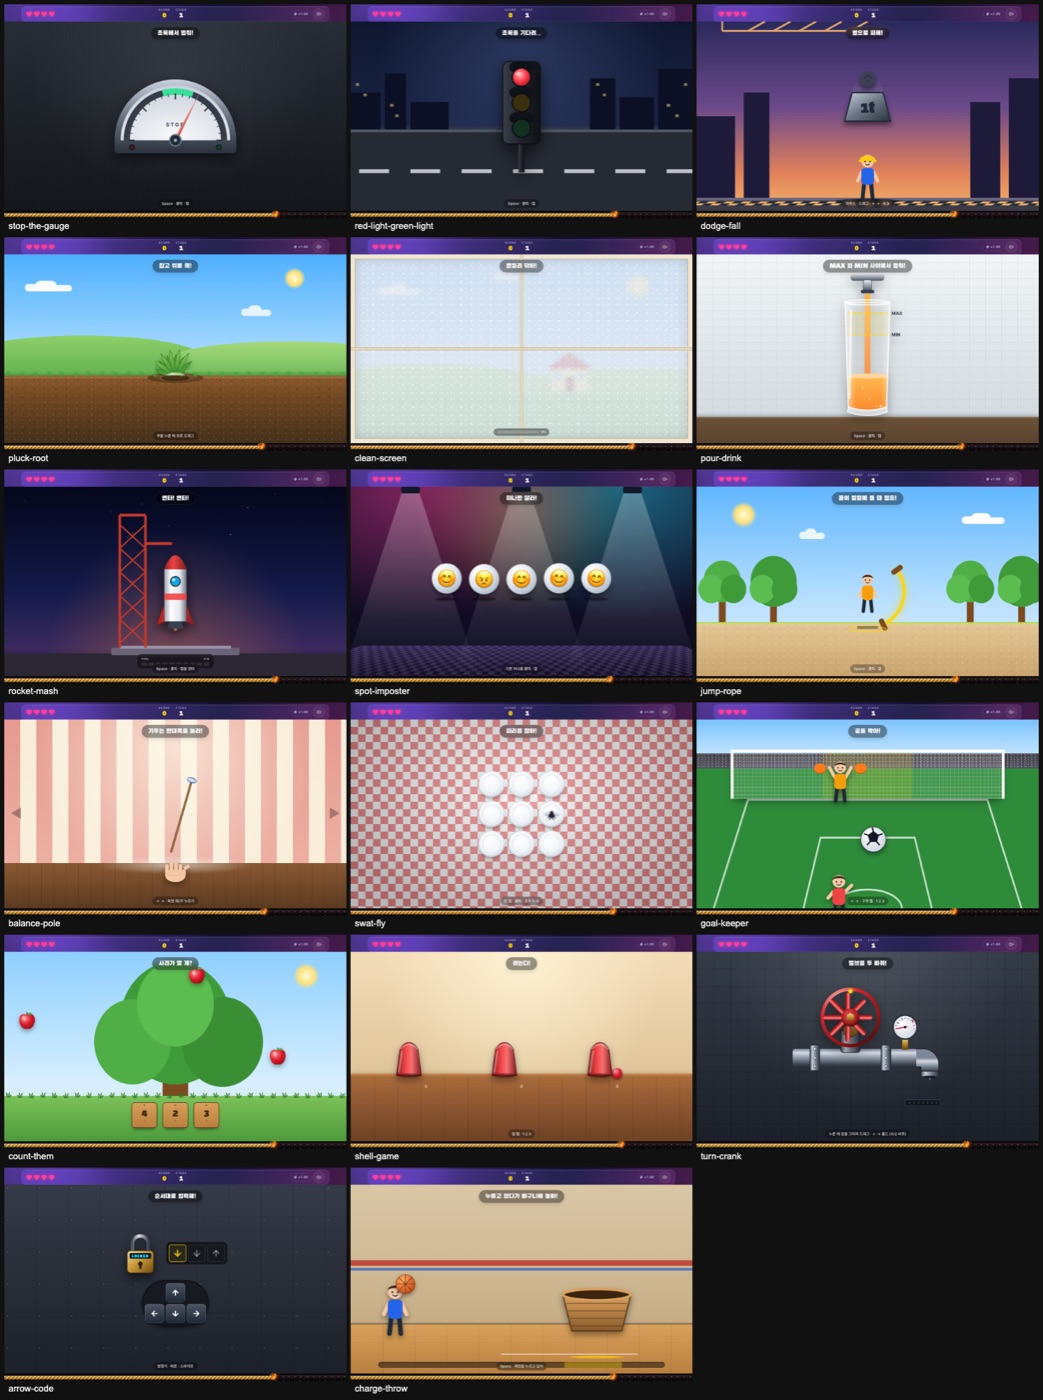
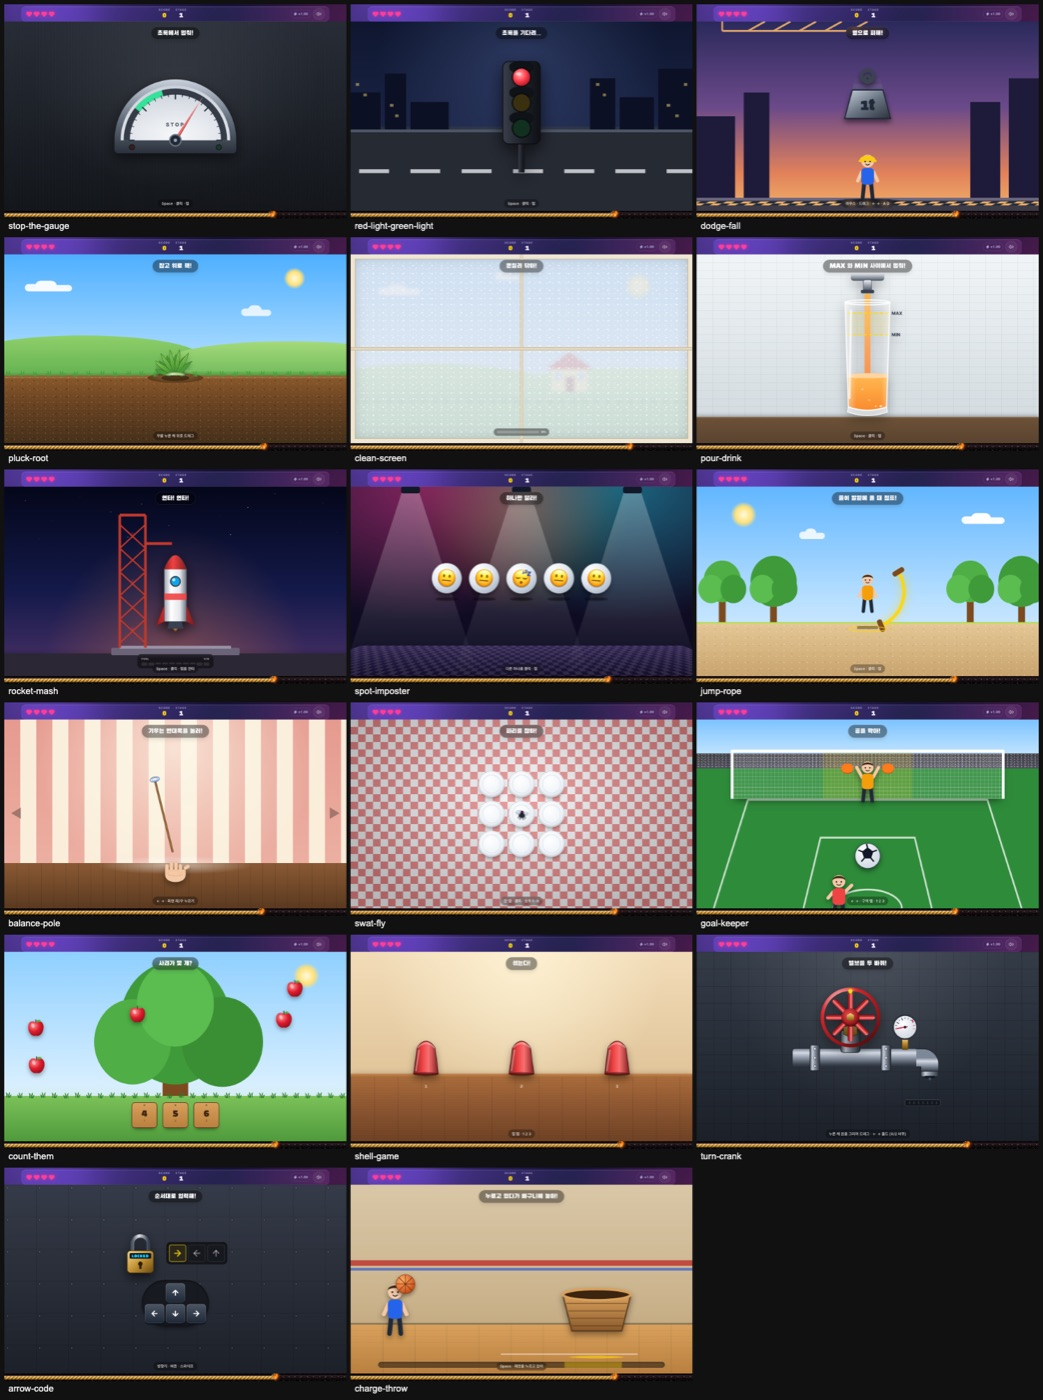
fix: 찾아! — 컵이 덮으면 공이 보이지 않는다 (+ 네 게임의 이중 이동 버그)
- 원인: Tailwind 4 의 `-translate-x-1/2` 는 CSS `translate` 속성으로 컴파일되어 인라인 `transform: translateX(-50%)`
  와 합성된다(덮어쓰기가 아니다). 두 가지를 같이 쓴 요소들이 제 너비의 100% 만큼 밀려 있었다 —
  찾아!의 컵(공보다 64px 왼쪽) · 세워!의 막대 · 막아!의 골키퍼와 공 · 돌려!의 바퀴살. 클래스 쪽을 걷어냈다.
- 찾아!: 컵이 들려 있을 때만 공을 보여준다. 겹침으로 가려지기를 기대하지 않는다 — 화면 비율에 따라 컵 실루엣
  크기가 달라져 삐져나올 수 있고, "숨겼는데 보이면" 규칙이 성립하지 않는다. 컵이 내려앉는 0.3초 동안 함께
  사라지고, 들릴 때 팝으로 나타난다.
- 세워!: 처음 기울기와 처음 각속도를 같은 방향으로 맞췄다. 반대로 뽑히면 막대가 중심을 지나 반대편으로 넘어가느라
  제한 시간을 넘겨 "아무것도 안 했는데 성공"하는 판이 나왔다 (무입력 10만 회 시뮬: ×1.00 에서 8.2% → 0%).
  게임이 추가된 232c867 부터 있던 문제다.
- 데스크톱 · 폰 세로 네 단계(보여주기 · 덮기 · 고르기 · 공개)에서 공 opacity 와 컵 실루엣 겹침을 실측 확인.

검증: 하네스 7종 통과(touch 는 단독 실행 기준 — 배치로 돌리면 간섭으로 타임아웃), 빌드 · 린트 통과.

diff --git a/src/games/catalog/ShellGame.tsx b/src/games/catalog/ShellGame.tsx
@@ -95,8 +95,21 @@ export function ShellGame({ onSuccess, onFail, speedMultiplier }: MicrogameProps
         <span key={x} aria-hidden className="absolute bottom-[27%] -translate-x-1/2 font-display text-lg text-white/50" style={{ left: `${x}%` }}>{i + 1}</span>
       ))}
 
-      {/* 공 — 공이 든 컵의 자리를 따라간다 */}
-      <div className="absolute bottom-[33%] size-10 -translate-x-1/2 rounded-full bg-[radial-gradient(circle_at_35%_30%,#ffb3b3,#e11d2f_45%,#7f0d18)] shadow-[0_6px_10px_rgba(0,0,0,0.4)] transition-[left] duration-300" style={{ left: `${SLOT_X[ballSlot]}%` }} />
+      {/*
+        공 — 컵이 들려 있을 때(처음 보여줄 때 · 판정 후)만 보인다.
+        컵에 가려지기를 기대하는 대신 아예 지우는 이유: 화면 비율에 따라 컵 실루엣의 크기가 달라져
+        (폰 세로에서는 더 작다) 옆으로 삐져나올 수 있고, "숨겼는데 보이면" 게임이 성립하지 않는다.
+        컵이 내려앉는 0.3초 동안 함께 사라지므로 "컵이 덮었다"로 읽힌다.
+      */}
+      <div
+        aria-hidden
+        data-testid="shell-ball"
+        data-visible={lifted}
+        className={`absolute bottom-[33%] size-10 -translate-x-1/2 rounded-full bg-[radial-gradient(circle_at_35%_30%,#ffb3b3,#e11d2f_45%,#7f0d18)] shadow-[0_6px_10px_rgba(0,0,0,0.4)] transition-[left,opacity,scale] duration-300 ${
+          lifted ? 'scale-100 opacity-100' : 'scale-50 opacity-0'
+        } ${done ? 'animate-pop' : ''}`}
+        style={{ left: `${SLOT_X[ballSlot]}%`, zIndex: 1 }}
+      />
 
       {/* 컵 3개 */}
       {[0, 1, 2].map((cup) => (
@@ -107,7 +120,8 @@ export function ShellGame({ onSuccess, onFail, speedMultiplier }: MicrogameProps
           data-slot={slots[cup]}
           aria-label={`${slots[cup] + 1}번 컵`}
           onPointerDown={() => pickSlot(slots[cup])}
-          className="absolute bottom-[32%] h-36 w-28 -translate-x-1/2 transition-[left,transform] duration-300 sm:w-32"
+          /* 가로 가운데 맞춤은 인라인 transform 이 한다 — 클래스로 또 옮기면 translate 속성과 겹쳐 두 배로 밀린다 */
+          className="absolute bottom-[32%] h-36 w-28 transition-[left,transform] duration-300 sm:w-32"
           style={{ left: `${SLOT_X[slots[cup]]}%`, transform: `translateX(-50%) translateY(${lifted ? -78 : 0}px)`, zIndex: 2 }}
         >
           <svg viewBox="0 0 100 130" className="h-full w-full overflow-visible drop-shadow-[0_14px_14px_rgba(0,0,0,0.4)]" aria-hidden>

diff --git a/src/games/catalog/BalancePole.tsx b/src/games/catalog/BalancePole.tsx
@@ -19,7 +19,13 @@ const TORQUE = 150; // deg/s²
 
 export function BalancePole({ onSuccess, onFail, speedMultiplier }: MicrogameProps) {
   const { done, finish, isDone } = useOutcome(onSuccess, onFail);
-  const [init] = useState(() => ({ a: (Math.random() < 0.5 ? -1 : 1) * (7 + Math.random() * 5), v: (Math.random() - 0.5) * 16 }));
+  // 처음 기울기와 처음 각속도는 **같은 방향**이어야 한다 — "가만히 두면 쓰러진다"가 이 게임의 전제이기 때문이다.
+  // 반대 방향으로 뽑히면 막대가 중심을 지나 반대편으로 넘어가느라 제한 시간을 넘겨, 아무것도 안 했는데 성공하는
+  // 맥 빠지는 판이 나온다 (무입력 10만 회 시뮬: ×1.00 에서 8.2% · ×1.45 에서 1.4%). 같은 방향이면 어느 배율에서도 0%.
+  const [init] = useState(() => {
+    const dir = Math.random() < 0.5 ? -1 : 1;
+    return { a: dir * (7 + Math.random() * 5), v: dir * Math.random() * 8 };
+  });
   const sim = useRef({ ...init });
   const input = useRef(0); // -1 왼쪽으로 밀기, +1 오른쪽으로 밀기
   const [angle, setAngle] = useState(init.a);
@@ -108,7 +114,7 @@ export function BalancePole({ onSuccess, onFail, speedMultiplier }: MicrogamePro
       <span className="absolute right-6 top-1/2 -translate-y-1/2 font-display text-5xl text-black/30">▶</span>
 
       {/* 막대 + 접시: 손바닥 위의 점을 축으로 회전 */}
-      <div className="absolute bottom-[24%] left-1/2 h-[54%] w-14 origin-bottom -translate-x-1/2" style={{ transform: `translateX(-50%) rotate(${shown}deg)`, transition: fallen ? 'transform 0.35s ease-in' : undefined }}>
+      <div className="absolute bottom-[24%] left-1/2 h-[54%] w-14 origin-bottom" style={{ transform: `translateX(-50%) rotate(${shown}deg)`, transition: fallen ? 'transform 0.35s ease-in' : undefined }}>
         <svg viewBox="0 0 56 300" className="h-full w-full overflow-visible" aria-hidden>
           <defs>
             <linearGradient id="bp-wood" x1="0" y1="0" x2="1" y2="0"><stop offset="0" stopColor="#5b3a1e" /><stop offset="0.5" stopColor="#b8814a" /><stop offset="1" stopColor="#5b3a1e" /></linearGradient>

diff --git a/src/games/catalog/GoalKeeper.tsx b/src/games/catalog/GoalKeeper.tsx
@@ -87,7 +87,7 @@ export function GoalKeeper({ onSuccess, onFail, speedMultiplier }: MicrogameProp
 
       {/* 골키퍼: 팔을 벌린 선수 + 장갑 */}
       <div
-        className="absolute top-[20%] h-[24%] w-[16%] -translate-x-1/2 transition-[left] duration-150 ease-out"
+        className="absolute top-[20%] h-[24%] w-[16%] transition-[left] duration-150 ease-out"
         style={{ left: `${ZONE_X[keeper]}%`, transform: `translateX(-50%) ${done === 'fail' ? 'rotate(-18deg)' : done === 'success' ? 'scale(1.12)' : ''}` }}
       >
         <Person className="h-full w-full drop-shadow-[0_10px_10px_rgba(0,0,0,0.45)]" pose={done === 'fail' ? 'fall' : 'cheer'} shirt={done === 'success' ? '#34e29a' : '#f59e0b'} />
@@ -96,7 +96,7 @@ export function GoalKeeper({ onSuccess, onFail, speedMultiplier }: MicrogameProp
       </div>
 
       {/* 공 — 날아갈수록 작아지고, 그림자는 발 앞에서만 */}
-      <div className={`absolute w-[9%] -translate-x-1/2 -translate-y-1/2 ${!flying && t < 0 ? 'animate-[fx-jitter_0.2s_linear_infinite]' : ''}`} style={{ left: `${ballX}%`, top: `${ballY}%`, transform: `translate(-50%, -50%) scale(${ballScale})` }}>
+      <div className={`absolute w-[9%] ${!flying && t < 0 ? 'animate-[fx-jitter_0.2s_linear_infinite]' : ''}`} style={{ left: `${ballX}%`, top: `${ballY}%`, transform: `translate(-50%, -50%) scale(${ballScale})` }}>
         <svg viewBox="0 0 100 100" className="w-full drop-shadow-[0_10px_10px_rgba(0,0,0,0.45)]" aria-hidden>
           <defs><radialGradient id="gk-ball" cx="0.35" cy="0.3" r="0.8"><stop offset="0" stopColor="#ffffff" /><stop offset="1" stopColor="#cbd5e1" /></radialGradient></defs>
           <circle cx="50" cy="50" r="46" fill="url(#gk-ball)" stroke="#334155" strokeWidth="2" />

diff --git a/src/games/catalog/TurnCrank.tsx b/src/games/catalog/TurnCrank.tsx
@@ -198,7 +198,7 @@ export function TurnCrank({ onSuccess, onFail }: MicrogameProps) {
         >
           <div className="crank-rim absolute inset-0 rounded-full" />
           {SPOKES.map((d) => (
-            <span key={d} className="crank-spoke absolute inset-y-[9%] left-1/2 w-[9%] -translate-x-1/2" style={{ transform: `translateX(-50%) rotate(${d}deg)` }} />
+            <span key={d} className="crank-spoke absolute inset-y-[9%] left-1/2 w-[9%]" style={{ transform: `translateX(-50%) rotate(${d}deg)` }} />
           ))}
           <div className="crank-hub absolute left-1/2 top-1/2 size-[30%] -translate-x-1/2 -translate-y-1/2 rounded-full" />
           <span className="crank-nut absolute left-1/2 top-1/2 size-[14%] -translate-x-1/2 -translate-y-1/2" />
